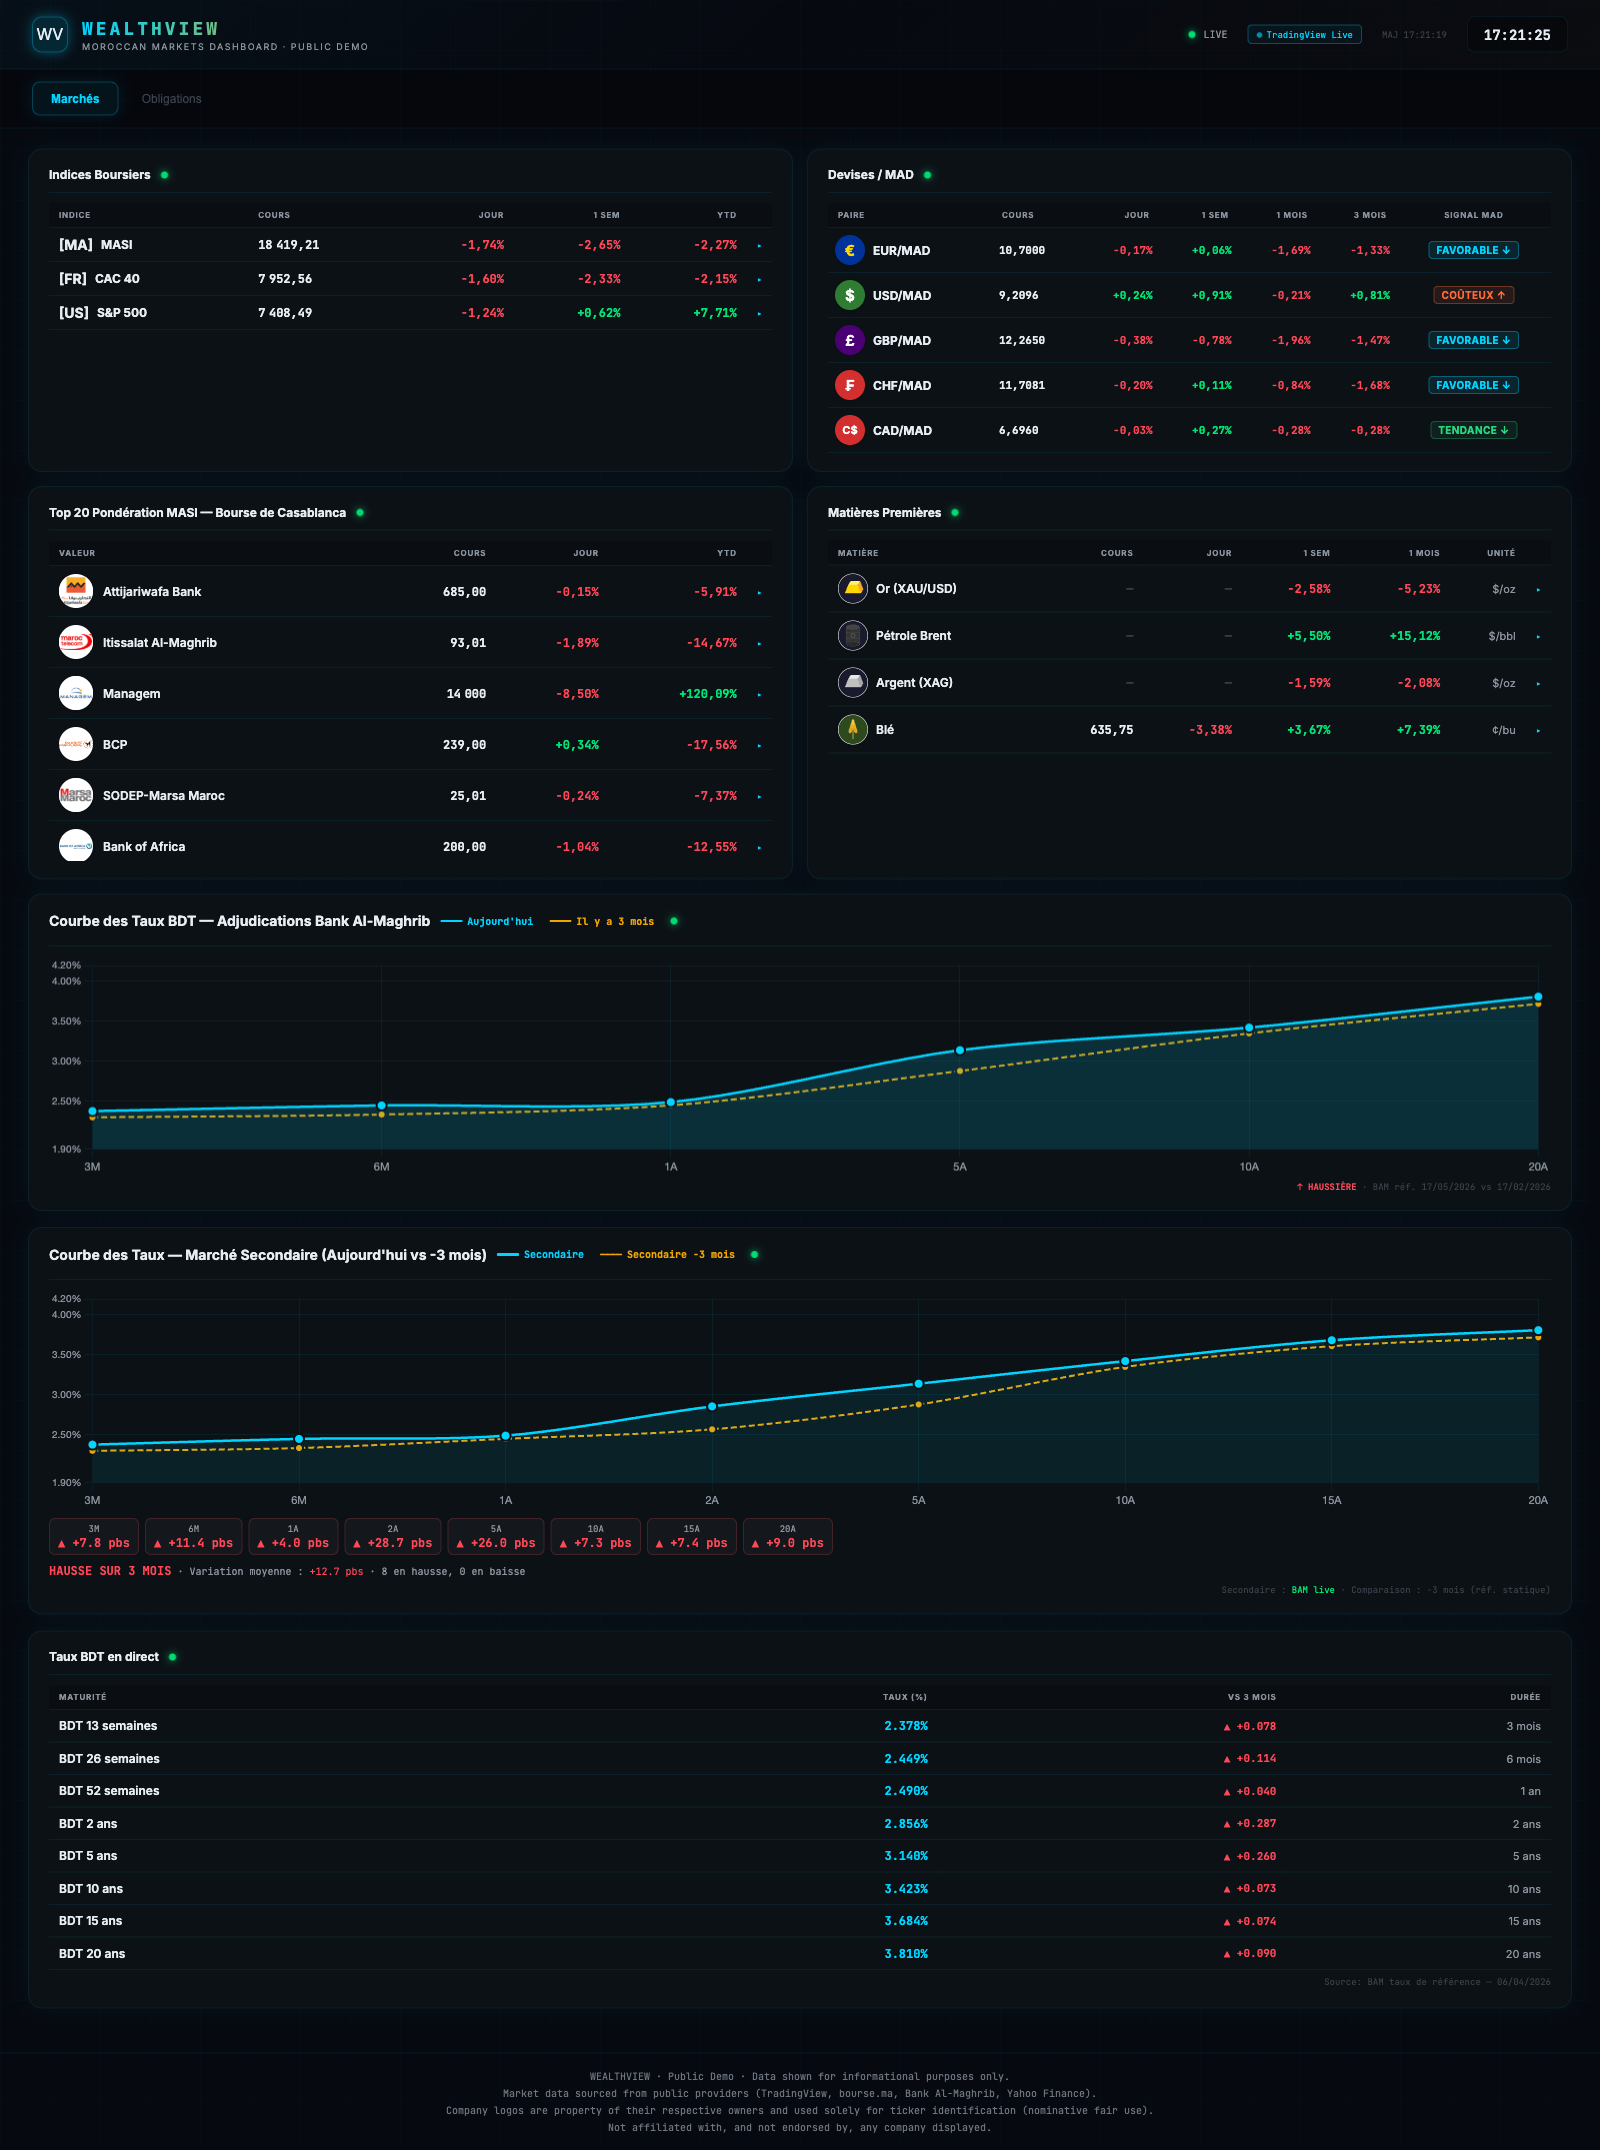
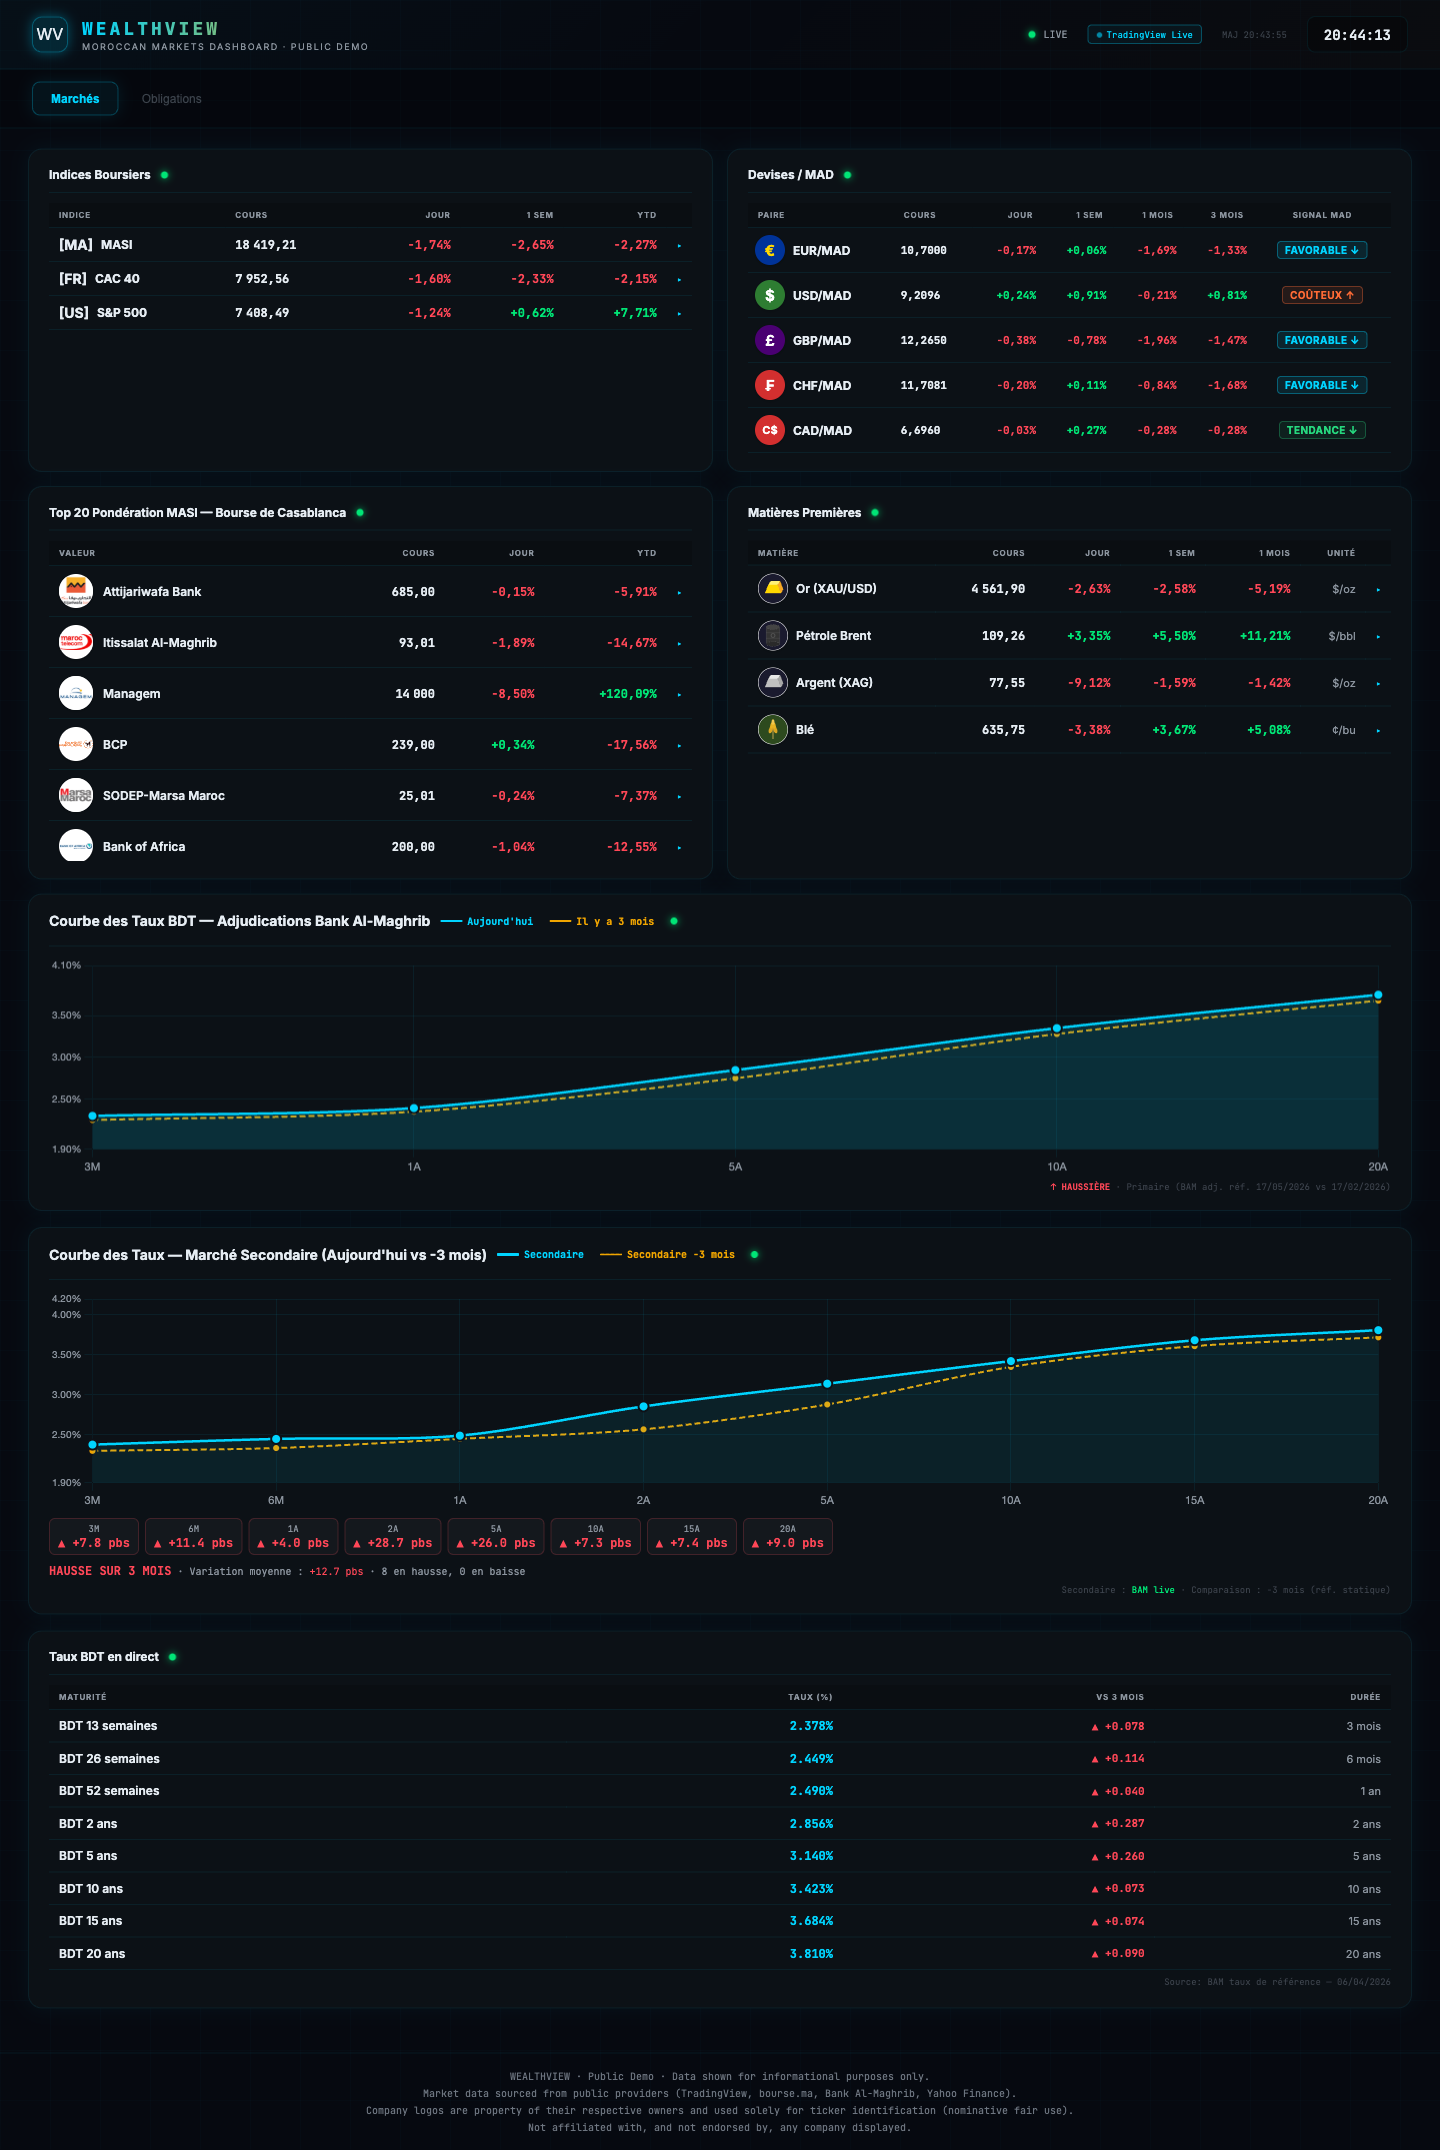
Update README screenshot and add live demo URL

diff --git a/README.md b/README.md
@@ -4,7 +4,7 @@ A real-time dashboard for Moroccan financial markets. It's one HTML file. No bac
 
 I built this because every dashboard I tried for Moroccan markets was either outdated, slow, or required a paid Bloomberg-like subscription. So I rolled my own.
 
-**Live demo:** _(GitHub Pages URL will go here once published)_
+**Live demo:** https://ak-ships.github.io/wealthview-demo/
 
 ![WealthView screenshot, Marchés tab](docs/screenshot-markets.png)
 